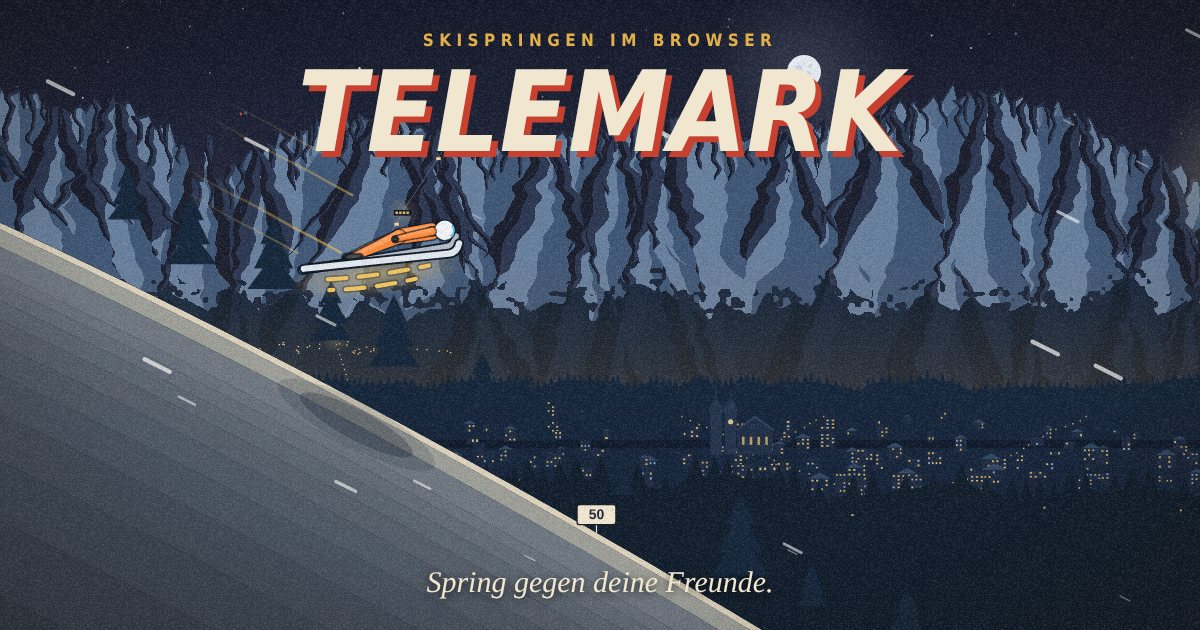
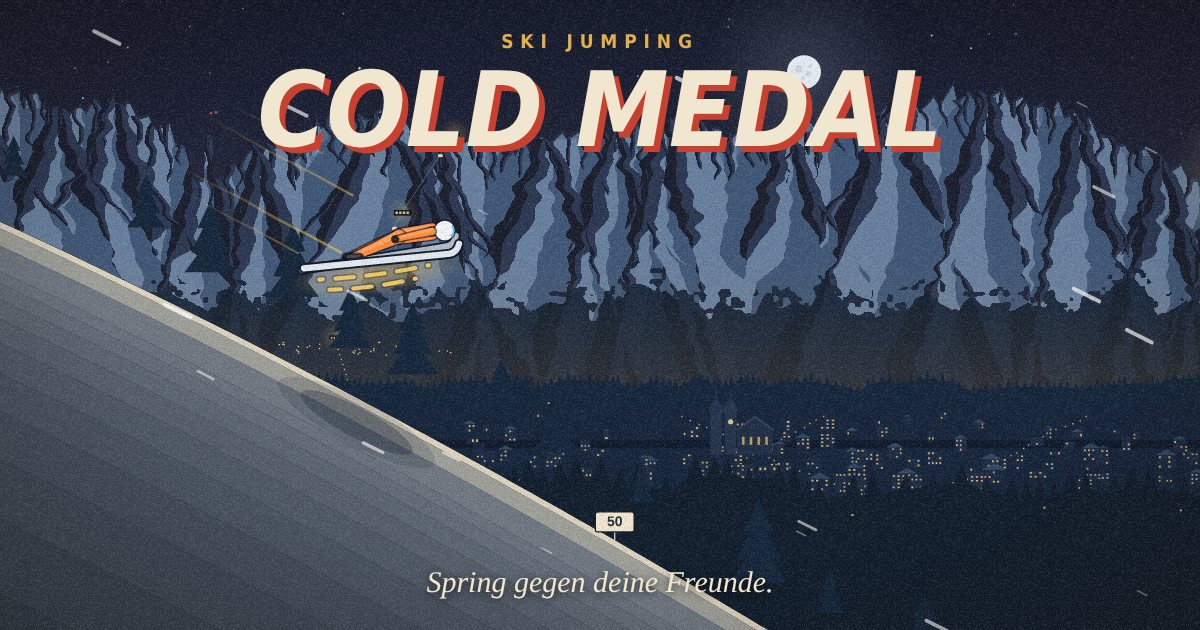
Cold Medal · Ski Jumping 0.26: neuer Name (Cold Medal Games), Vorschaubild und App-Name
Claude-Session: https://claude.ai/code/session_014DHnXiMsDfVAnabeVsUtwq

diff --git a/index.html b/index.html
@@ -4,9 +4,9 @@
 <meta charset="utf-8">
 <meta name="viewport" content="width=device-width, initial-scale=1, maximum-scale=1, user-scalable=no">
 <meta name="theme-color" content="#0B1526">
-<title>TELEMARK Skispringen</title>
+<title>Cold Medal · Ski Jumping</title>
 <meta name="description" content="Skispringen im Browser: spring gegen deine Freunde, gleiche Schanze, gleicher Wind.">
-<meta property="og:title" content="TELEMARK · Skispringen im Browser">
+<meta property="og:title" content="Cold Medal · Ski Jumping">
 <meta property="og:description" content="Spring gegen deine Freunde: gleiche Schanze, gleicher Wind, ihr Sprung als Geist.">
 <meta property="og:type" content="website">
 <link rel="manifest" href="manifest.webmanifest">
@@ -14,12 +14,12 @@
 <link rel="apple-touch-icon" href="icons/apple-touch-icon.png">
 <meta name="mobile-web-app-capable" content="yes">
 <meta name="apple-mobile-web-app-capable" content="yes">
-<meta name="apple-mobile-web-app-title" content="TELEMARK">
+<meta name="apple-mobile-web-app-title" content="Cold Medal">
 <meta name="apple-mobile-web-app-status-bar-style" content="black-translucent">
 <meta property="og:image" content="https://matpeins-debug.github.io/TELEMARK/og.jpg">
 <meta property="og:image:width" content="1200">
 <meta property="og:image:height" content="630">
-<meta property="og:image:alt" content="TELEMARK: Skispringer im Flug über der Schanze bei Nacht">
+<meta property="og:image:alt" content="Cold Medal Ski Jumping: Skispringer im Flug über der Schanze bei Nacht">
 <meta property="og:locale" content="de_AT">
 <meta property="og:url" content="https://matpeins-debug.github.io/TELEMARK/">
 <link rel="canonical" href="https://matpeins-debug.github.io/TELEMARK/">
@@ -762,7 +762,7 @@ button.title-note u { text-decoration: underline; text-underline-offset: 2px; }
 #inName.need { outline: 3px solid var(--warn); outline-offset: 1px; }
 
 /* Titel auf schmalen Bildschirmen und Fußzeile: nichts überlappt die Schanzenkarte oder die Knöpfe */
-.narrow .logo { font-size: 64px; line-height: 62px; }
+.narrow .logo { font-size: 54px; line-height: 56px; }
 .title-note { left: 452px; text-align: right; }
 
 /* Ergebnis: langer Name und Gesamtpunkte bleiben in der Karte */
@@ -917,6 +917,10 @@ button.chb-row svg:last-child { color: var(--hi); opacity: .85; }
 .upd-btn { position: absolute; left: 50%; top: 8px; transform: translateX(-50%); z-index: 60; height: 32px; padding: 0 14px; border: 2px solid var(--ink-deep); border-radius: 4px;
   background: var(--gold); color: var(--ink-deep); font-family: var(--font-label); font-weight: 700; font-size: 13px; letter-spacing: 0.04em; white-space: nowrap; cursor: pointer; box-shadow: 0 3px 0 rgba(20, 27, 37, 0.5); }
 
+/* Schriftzug COLD MEDAL in einer Zeile; Abzeichen am Trainingsknopf sitzt am Knopf */
+.logo { white-space: nowrap; font-size: 66px; line-height: 68px; }
+.btn-col > .btn { position: relative; }
+
 </style>
 </head>
 <body>
@@ -1020,8 +1024,8 @@ button.chb-row svg:last-child { color: var(--hi); opacity: .85; }
 <section id="scrTitle" class="screen" hidden>
   <div class="title-col">
     <div class="title-head">
-      <span class="kicker">SKISPRINGEN IM BROWSER</span>
-      <h1 class="logo">TELEMARK</h1>
+      <span class="kicker">SKI JUMPING</span>
+      <h1 class="logo">COLD MEDAL</h1>
     </div>
     <div class="btn-col">
       <button type="button" id="btnPlay" class="btn btn-primary"><span class="btn-two"><span>Training</span><span id="trBadge" class="btn-badge" hidden>ANFÄNGER</span></span><span class="ico" data-icon="arrow-right"></span></button>
@@ -1425,7 +1429,7 @@ button.chb-row svg:last-child { color: var(--hi); opacity: .85; }
 <section id="scrPic" class="screen screen-dim3 center" hidden>
   <div class="dialog picdlg panel-strong" role="dialog" aria-label="Dein Sprung als Bild">
     <img id="picImg" class="pic-img" alt="Dein Sprung als Bild">
-    <div class="pic-foot"><span class="hd-text">Lange drücken zum Sichern oder Teilen.</span><a id="picDl" class="btn btn-secondary btn-s" href="#" download="telemark.png"><span>Herunterladen</span></a><button type="button" id="btnPicDone" class="btn btn-primary btn-s"><span>Fertig</span></button></div>
+    <div class="pic-foot"><span class="hd-text">Lange drücken zum Sichern oder Teilen.</span><a id="picDl" class="btn btn-secondary btn-s" href="#" download="cold-medal-ski-jumping.png"><span>Herunterladen</span></a><button type="button" id="btnPicDone" class="btn btn-primary btn-s"><span>Fertig</span></button></div>
   </div>
 </section>
 
@@ -1433,7 +1437,7 @@ button.chb-row svg:last-child { color: var(--hi); opacity: .85; }
 <section id="scrOnline" class="screen screen-dim3 center" hidden>
   <div class="dialog hillinfo infodlg oldlg panel-strong" role="dialog" aria-labelledby="olTitle">
     <div class="set-head">
-      <div class="hi-head"><span class="kicker">TELEMARK ONLINE</span><h2 id="olTitle" class="h1">Online</h2></div>
+      <div class="hi-head"><span class="kicker">COLD MEDAL ONLINE</span><h2 id="olTitle" class="h1">Online</h2></div>
       <div class="hi-nav"><button type="button" id="btnOlDone" class="btn btn-primary btn-s"><span>Fertig</span></button></div>
     </div>
     <p id="olOff" class="hi-about" hidden>Online gibt es auf der Spielseite im Browser.</p>
@@ -1475,7 +1479,7 @@ button.chb-row svg:last-child { color: var(--hi); opacity: .85; }
 <section id="scrInfo" class="screen screen-dim3 center" hidden>
   <div class="dialog hillinfo infodlg panel-strong" role="dialog" aria-labelledby="ifTitle">
     <div class="set-head">
-      <div class="hi-head"><span id="ifKicker" class="kicker">TELEMARK</span><h2 id="ifTitle" class="h1">Info &amp; Datenschutz</h2></div>
+      <div class="hi-head"><span id="ifKicker" class="kicker">COLD MEDAL</span><h2 id="ifTitle" class="h1">Info &amp; Datenschutz</h2></div>
       <div class="hi-nav"><button type="button" id="btnOnline" class="btn btn-secondary btn-s" hidden><span>Online</span></button><button type="button" id="btnIfDone" class="btn btn-primary btn-s"><span>Fertig</span></button></div>
     </div>
     <div class="hi-body">
@@ -1489,7 +1493,7 @@ button.chb-row svg:last-child { color: var(--hi); opacity: .85; }
         </div>
         <div id="ifLoad" class="hi-box" hidden><span id="ifLoadTxt"></span><span class="if-btns"><button type="button" id="btnLoadNo" class="btn-plain">Abbrechen</button><button type="button" id="btnLoadYes" class="btn btn-primary btn-s"><span>Ersetzen</span></button></span></div>
         <span class="hi-k">FANSPIEL</span>
-        <p class="hi-about">TELEMARK ist ein inoffizielles Fanspiel ohne Verbindung zur FIS, zu Verbänden, Veranstaltern oder Schanzenbetreibern. Alle Gegner sind frei erfunden. Orts- und Schanzennamen beschreiben nur die echten Schanzen, Profile, Luken und Rekorde stammen aus öffentlichen Quellen. Alle Marken gehören ihren Inhabern.</p>
+        <p class="hi-about">Cold Medal ist ein inoffizielles Fanspiel ohne Verbindung zur FIS, zu Verbänden, Veranstaltern oder Schanzenbetreibern. Alle Gegner sind frei erfunden. Orts- und Schanzennamen beschreiben nur die echten Schanzen, Profile, Luken und Rekorde stammen aus öffentlichen Quellen. Alle Marken gehören ihren Inhabern.</p>
         <span class="hi-k">IMPRESSUM</span>
         <p id="ifImp" class="hi-about"></p>
       </div>
@@ -6441,7 +6445,7 @@ button.chb-row svg:last-child { color: var(--hi); opacity: .85; }
 (function () {
   "use strict";
   const Hill = window.TMHill, Ph = window.TMPhys, RM = window.TMRender, CP = window.TMComp;
-  const VERSION = "0.25";
+  const VERSION = "0.26";
   // Seiten-Einstellungen aus dem Build (eigenes Hosting: Adresse, Impressum); im claude.ai-Artefakt leer
   const SITE = Object.assign({ web: false, url: "", impressum: null }, {"web": true, "url": "https://matpeins-debug.github.io/TELEMARK/", "hoster": "GitHub Pages (GitHub Inc., USA)", "drittland": "GitHub ist nach dem EU-US Data Privacy Framework zertifiziert; die Übermittlung in die USA stützt sich auf den Angemessenheitsbeschluss der EU-Kommission dazu.", "impressum": {"name": "", "adresse": "", "mail": ""}, "sb": {"url": "https://pqpvgkslozsekjywpdrf.supabase.co", "key": "sb_publishable_KkKe9jchmXYp_-OEmB8WLQ_gZLXrRhF"}} || {});
   // Online (Supabase): Gruppen mit Live-Rangliste und Spielstand per Code. Nur auf der eigenen Seite eingerichtet, im Artefakt aus.
@@ -6812,7 +6816,7 @@ button.chb-row svg:last-child { color: var(--hi); opacity: .85; }
     ui.style.width = sw / uiS + "px"; ui.style.height = sh / uiS + "px"; ui.style.transform = `scale(${uiS})`;
     ui.classList.toggle("narrow", sw / uiS < 820);   // schmale Bildschirme (z. B. iPhone SE): kleinerer Schriftzug, damit nichts überlappt
     turnHint(rotated);
-    setTimeout(() => { if (mode === "result" && rsTab === "ana") drawAnaChart(lastResult); }, 30);   // nach dem Start: erst wenn alles da ist
+    setTimeout(() => { if (mode === "result" && rsTab === "ana") drawAnaChart(lastResult); fitLogo(); }, 30);   // nach dem Start: erst wenn alles da ist
   }
   // Hochformat: Das Spiel dreht sich mit, ein kurzer Hinweis sagt, dass man das Handy quer halten soll
   let turnEl = null, turnT = 0;
@@ -7065,8 +7069,18 @@ button.chb-row svg:last-child { color: var(--hi); opacity: .85; }
     if (b) return `Bestweite ${fmt1(b.d)} m${b.gate ? ` · Luke ${b.gate}` : ""}`;
     return Hh.record ? `Schanzenrekord ${fmt1(Hh.record.m)} m` : "Noch kein Sprung";
   }
+  // Schriftzug passt in die Spalte, egal welche Schrift das Gerät hat (iPhone: Futura, sonst Ersatz)
+  function fitLogo() {
+    const l = document.querySelector(".logo");
+    if (!l || !l.clientWidth) return;
+    l.style.fontSize = "";
+    const cw = l.clientWidth, sw = l.scrollWidth;
+    if (sw > cw) { const fs = Math.floor(parseFloat(getComputedStyle(l).fontSize) * cw / sw); l.style.fontSize = fs + "px"; l.style.lineHeight = Math.round(fs * 1.04) + "px"; }
+    else l.style.lineHeight = "";
+  }
   function refreshTitle() {
     el.tjFlag.innerHTML = flag(S.nation); txt(el.tjName, S.name || "SPRINGER");
+    requestAnimationFrame(fitLogo);
     $("hillSketch").innerHTML = hillSketch(H);
     txt($("hillName"), H.name); txt($("hillSub"), hillSub(H));
     el.hillStats.textContent = bestText(H);
@@ -8503,13 +8517,13 @@ button.chb-row svg:last-child { color: var(--hi); opacity: .85; }
     const st = dailyState(), spec = dailySpec(st.date), b = dailyBest(st.tries), Hh = Hill.getHill(spec.key);
     if (!b) return null;
     const wind = spec.wind === "strong" ? "böig" : "wechselnd";
-    return `TELEMARK Tageschallenge ${dateDE(spec.date)}${spec.ev && spec.ev !== "Weltspitze" ? ` · ${spec.ev}` : ""}\n${Hh.name} HS${Hh.HS} · Luke ${spec.gate} · Wind ${wind}\n` +
+    return `Cold Medal · Tageschallenge ${dateDE(spec.date)}${spec.ev && spec.ev !== "Weltspitze" ? ` · ${spec.ev}` : ""}\n${Hh.name} HS${Hh.HS} · Luke ${spec.gate} · Wind ${wind}\n` +
       `Bester Versuch: ${fmt1(b.dist)} m · ${KIND_SHORT[b.kind]} · ${fmt1(b.total)} Punkte (${st.tries.length}/3)\nCode ${shareCode(spec, b)}` + (gameUrl() ? `\nSpring mit: ${gameUrl()}` : "");
   }
   async function shareDaily() {
     const text = shareText();
     if (!text) { showToastSafeText("NOCH KEIN SPRUNG", "Spring zuerst die Tageschallenge"); return; }
-    try { if (navigator.share) { await navigator.share({ title: "TELEMARK", text }); return; } } catch (e) { if (e && e.name === "AbortError") return; }
+    try { if (navigator.share) { await navigator.share({ title: "Cold Medal", text }); return; } } catch (e) { if (e && e.name === "AbortError") return; }
     try { await navigator.clipboard.writeText(text); showToastSafeText("KOPIERT", "Ergebnis in der Zwischenablage"); return; } catch (e) { /* weiter */ }
     // Rückfall: Text zum manuellen Kopieren anzeigen
     openArcade();
@@ -8647,7 +8661,7 @@ button.chb-row svg:last-child { color: var(--hi); opacity: .85; }
     const Hh = Hill.getHill(c.h);
     const b = c.r && c.r.length ? chalBoard({ n: c.n, c: c.c, d: c.d, p: c.p, k: c.k, r: c.r.map((x) => ({ n: x[0], c: x[1], d: x[2], p: x[3], k: x[4] })) }) : null;
     const board = b ? ` Rangliste: ${b.slice(0, 4).map((x, i) => `${i + 1}. ${x.n} ${fmt1(x.p)}`).join(" · ")}.` : "";
-    return `${c.n} fordert dich bei TELEMARK heraus: ${fmt1(c.d)} m und ${fmt1(c.p)} Punkte in ${Hh.short || Hh.name} (HS${Hh.HS}).${board} Schaffst du mehr?\n${url}`;
+    return `${c.n} fordert dich zum Skispringen heraus (Cold Medal): ${fmt1(c.d)} m und ${fmt1(c.p)} Punkte in ${Hh.short || Hh.name} (HS${Hh.HS}).${board} Schaffst du mehr?\n${url}`;
   }
   const chalCode = (text) => { const m = /(?:^|[#&?\s])c=([A-Za-z0-9_-]{16,})/.exec(String(text || "")); return m ? m[1] : null; };
   function chalFromLocation() {
@@ -8678,7 +8692,7 @@ button.chb-row svg:last-child { color: var(--hi); opacity: .85; }
       if (lastResult === r) txt($("chalBtnTxt"), "Herausfordern");
     }
     const text = chalText(c, chalUrl(c));
-    try { if (navigator.share) { await navigator.share({ title: "TELEMARK", text }); return; } } catch (e) { if (e && e.name === "AbortError") return; }
+    try { if (navigator.share) { await navigator.share({ title: "Cold Medal", text }); return; } } catch (e) { if (e && e.name === "AbortError") return; }
     try { await navigator.clipboard.writeText(text); showToastSafeText("LINK KOPIERT", "In WhatsApp einfügen und senden"); return; } catch (e) { /* weiter */ }
     // Rückfall: Text zum manuellen Kopieren anzeigen
     const ta = $("chalShareTxt"); ta.value = text; vis(ta, true); ta.focus(); ta.select();
@@ -8760,11 +8774,11 @@ button.chb-row svg:last-child { color: var(--hi); opacity: .85; }
   const groupUrl = (g) => (gameUrl() || location.href.split("#")[0]) + "#g=" + g;
   function groupText(c) {
     const Hh = Hill.getHill(c.h), top = c.board.slice(0, 3).map((x) => `${x.r}. ${x.n} ${fmt1(x.p)}`).join(" · ");
-    return `${meName()} lädt dich in eine TELEMARK-Gruppe ein: ${Hh.short || Hh.name} (HS${Hh.HS}), gleicher Wind für alle, Rangliste live.${top ? ` Stand: ${top}.` : ""} Spring mit:\n${groupUrl(c.grp)}`;
+    return `${meName()} lädt dich zum Skispringen ein (Cold Medal): ${Hh.short || Hh.name} (HS${Hh.HS}), gleicher Wind für alle, Rangliste live.${top ? ` Stand: ${top}.` : ""} Spring mit:\n${groupUrl(c.grp)}`;
   }
   // Teilen-Menü, sonst Zwischenablage, sonst Text zum Kopieren. false: der Browser lässt das Teilen ohne frisches Tippen nicht zu.
   async function shareLink(text) {
-    try { if (navigator.share) { await navigator.share({ title: "TELEMARK", text }); return true; } }
+    try { if (navigator.share) { await navigator.share({ title: "Cold Medal", text }); return true; } }
     catch (e) { if (e && e.name === "AbortError") return true; if (e && e.name === "NotAllowedError") return false; }
     try { await navigator.clipboard.writeText(text); showToastSafeText("LINK KOPIERT", "In WhatsApp einfügen und senden"); return true; } catch (e) { /* weiter */ }
     if (mode === "result") { const ta = $("chalShareTxt"); ta.value = text; vis(ta, true); ta.focus(); ta.select(); }
@@ -9049,9 +9063,9 @@ button.chb-row svg:last-child { color: var(--hi); opacity: .85; }
     c.font = `italic 800 30px ${FD}`; c.fillStyle = CREAM; c.textAlign = "right"; c.fillText(`${fmt1(r.dist)} m`, lx - 12, ly - 20);
     // Schrift links
     c.textAlign = "left";
-    c.font = `italic 800 74px ${FD}`; c.fillStyle = RED; c.fillText("TELEMARK", 66, 116); c.fillStyle = CREAM; c.fillText("TELEMARK", 60, 110);
+    c.font = `italic 800 70px ${FD}`; c.fillStyle = RED; c.fillText("COLD MEDAL", 66, 116); c.fillStyle = CREAM; c.fillText("COLD MEDAL", 60, 110);
     c.font = `700 17px ${FD}`; c.fillStyle = GOLD;
-    let kx = 64; for (const ch of "SKISPRINGEN IM BROWSER") { c.fillText(ch, kx, 146); kx += c.measureText(ch).width + 3.2; }
+    let kx = 64; for (const ch of "SKI JUMPING") { c.fillText(ch, kx, 146); kx += c.measureText(ch).width + 3.2; }
     let fs = 150; c.font = `italic 800 ${fs}px ${FD}`;
     const big = `${fmt1(r.dist)} m`;
     while (c.measureText(big).width > 520 && fs > 90) { fs -= 6; c.font = `italic 800 ${fs}px ${FD}`; }
@@ -9088,7 +9102,7 @@ button.chb-row svg:last-child { color: var(--hi); opacity: .85; }
     if (blob) {
       try {
         const file = new File([blob], fname, { type: "image/png" });
-        if (navigator.canShare && navigator.canShare({ files: [file] })) { await navigator.share(Object.assign({ files: [file], title: "TELEMARK" }, gameUrl() ? { text: `Spring mit: ${gameUrl()}` } : {})); return; }
+        if (navigator.canShare && navigator.canShare({ files: [file] })) { await navigator.share(Object.assign({ files: [file], title: "Cold Medal" }, gameUrl() ? { text: `Spring mit: ${gameUrl()}` } : {})); return; }
       } catch (e) { if (e && e.name === "AbortError") return; }
     }
     // Rückfall: Bild groß zeigen (lange drücken) und zum Herunterladen anbieten
@@ -10583,7 +10597,7 @@ button.chb-row svg:last-child { color: var(--hi); opacity: .85; }
   function openInfo(from) { infoFrom = from; loadState = null; setOverlay("info"); }
   function closeInfo() { setOverlay(infoFrom === "settings" ? "settings" : null); }
   function fillInfo() {
-    txt($("ifKicker"), `TELEMARK · VERSION ${VERSION}`);
+    txt($("ifKicker"), `COLD MEDAL · VERSION ${VERSION}`);
     vis($("btnOnline"), !!ON);
     txt($("ifPriv0"), ON
       ? "Kein Konto, keine Werbung, keine Cookies, keine Analyse. Dein Spielstand bleibt im Browser auf diesem Gerät. Ein Duell-Link enthält Name, Nation und Sprung und geht nur an die, denen du ihn schickst. Online-Gruppen und Online-Spielstand sind freiwillig, Details unter Online."
@@ -10618,7 +10632,7 @@ button.chb-row svg:last-child { color: var(--hi); opacity: .85; }
     if (await offerFile(saveName(), data)) return;
     try {
       const file = new File([data], saveName(), { type: "application/json" });
-      if (navigator.canShare && navigator.canShare({ files: [file] })) { await navigator.share({ files: [file], title: "TELEMARK Spielstand" }); return; }
+      if (navigator.canShare && navigator.canShare({ files: [file] })) { await navigator.share({ files: [file], title: "Cold Medal Spielstand" }); return; }
     } catch (e) { if (e && e.name === "AbortError") return; }
     try {
       const url = URL.createObjectURL(new Blob([data], { type: "application/json" }));
@@ -10641,7 +10655,7 @@ button.chb-row svg:last-child { color: var(--hi); opacity: .85; }
         const when = typeof o.date === "string" ? dateDE(o.date.slice(0, 10)) : "unbekannt";
         txt($("ifLoadTxt"), `Spielstand von ${test.name || "SPRINGER"} vom ${when}, ${test.jumps} Sprünge. Dein jetziger Stand wird ersetzt.`);
         vis($("ifLoad"), true);
-      } catch (e) { loadState = null; vis($("ifLoad"), false); softNotice("Diese Datei ist kein TELEMARK-Spielstand"); }
+      } catch (e) { loadState = null; vis($("ifLoad"), false); softNotice("Diese Datei ist kein Cold-Medal-Spielstand"); }
     };
     rd.onerror = () => softNotice("Datei konnte nicht gelesen werden");
     rd.readAsText(file);
@@ -10744,6 +10758,7 @@ button.chb-row svg:last-child { color: var(--hi); opacity: .85; }
       updSeen = v; txt($("btnUpd"), `Neue Version ${v} · tippen zum Laden`); vis($("btnUpd"), true);
     }).catch(() => {});
   }
+  if (document.fonts && document.fonts.ready) document.fonts.ready.then(() => fitLogo()).catch(() => {});
   on("btnUpd", () => { if (mode === "jump" || mode === "replay") return; location.reload(); });
   if (SITE.web) {
     setTimeout(checkUpdate, 4000);

diff --git a/sw.js b/sw.js
@@ -1,6 +1,6 @@
 // TELEMARK: Offline-Speicher. Beim ersten Besuch wird alles geladen, danach startet das Spiel auch ohne Netz.
 // Die Seite selbst kommt zuerst aus dem Netz (neue Version), ohne Netz aus dem Speicher.
-const CACHE = "telemark-0.25";
+const CACHE = "telemark-0.26";
 const FILES = ["./", "index.html", "manifest.webmanifest", "icons/icon-192.png", "icons/icon-512.png", "icons/apple-touch-icon.png"];
 self.addEventListener("install", (e) => {
   e.waitUntil(caches.open(CACHE).then((c) => c.addAll(FILES)).then(() => self.skipWaiting()));

diff --git a/README.md b/README.md
@@ -1,4 +1,6 @@
-# TELEMARK – Skispringen im Browser
+# Cold Medal · Ski Jumping
+
+Teil der **Cold Medal Games** (Wintersport im Browser).
 
 **Spielen:** https://matpeins-debug.github.io/TELEMARK/
 
